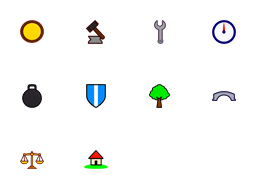
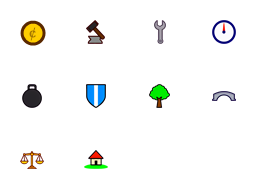
FIX: Align tooltip symbols and add a cent to the cost coin
display_color_img adds the image's stored x/y offset to the draw position. The tooltip symbol images were trimmed from a 64x64 cell, so their stored y offset moved every symbol down by one line: the cost coin appeared on the maintenance line and the cost line looked empty. Subtract the stored offset in draw_image_at so each visible sprite lands on its line.

The title line's custom toolbar icon no longer sets the symbol column for every line; body lines align on the largest per-line symbol. Add icon-size fallbacks for images whose stored size is zero.

Redraw the cost coin as a brown ring with a yellow centre and an alpha-blended cent sign, so the coin is self-explanatory without high contrast.

Changed region(s): [[0.0625, 0.0938, 0.1875, 0.25]]

diff --git a/gui/tooltip.cc b/gui/tooltip.cc
@@ -74,6 +74,16 @@ static scr_size get_image_size(image_id image)
 }
 
 
+static void draw_image_at(image_id image, scr_coord_val x, scr_coord_val y, bool dirty)
+{
+	scr_coord_val xoff, yoff, w, h;
+	display_get_image_offset(image, &xoff, &yoff, &w, &h);
+	// display_color_img adds the image's stored x/y offset; subtract it so the
+	// visible sprite lands on the requested position.
+	display_color_img(image, x - xoff, y - yoff, 0, false, dirty);
+}
+
+
 sint32 tooltip_t::get_max_width()
 {
 	const sint32 screen_width = display_get_width() - 2 * D_MARGIN_LEFT;
@@ -85,14 +95,16 @@ sint32 tooltip_t::get_icon_width(const tooltip_line_t &line)
 {
 	if(line.custom_icon != IMG_EMPTY)
 	{
-		return get_image_size(line.custom_icon).w;
+		const sint32 width = get_image_size(line.custom_icon).w;
+		return width > 0 ? width : env_t::iconsize.w;
 	}
 	if(line.symbol != TOOLTIP_SYMBOL_NONE)
 	{
 		const image_id image = get_symbol_image(line.symbol);
 		if(image != IMG_EMPTY)
 		{
-			return get_image_size(image).w;
+			const sint32 width = get_image_size(image).w;
+			return width > 0 ? width : 24;
 		}
 	}
 	return 0;
@@ -103,14 +115,16 @@ static sint32 get_icon_height(const tooltip_line_t &line)
 {
 	if(line.custom_icon != IMG_EMPTY)
 	{
-		return get_image_size(line.custom_icon).h;
+		const sint32 height = get_image_size(line.custom_icon).h;
+		return height > 0 ? height : env_t::iconsize.h;
 	}
 	if(line.symbol != TOOLTIP_SYMBOL_NONE)
 	{
 		const image_id image = get_symbol_image(line.symbol);
 		if(image != IMG_EMPTY)
 		{
-			return get_image_size(image).h;
+			const sint32 height = get_image_size(image).h;
+			return height > 0 ? height : 24;
 		}
 	}
 	return 0;
@@ -285,30 +299,36 @@ void tooltip_t::draw(scr_coord pos, scr_coord anchor, bool dirty) const
 
 	const sint32 max_width = get_max_width();
 
-	sint32 icon_column = 0;
+	// The title line may carry a toolbar icon much larger than the per-line
+	// symbols. Give it its own text offset so it does not push every other line
+	// to the right.
+	sint32 symbol_column = 0;
 	for(const tooltip_line_t &line : lines)
 	{
-		const sint32 icon_width = get_icon_width(line);
-		if(icon_width > 0)
+		if(line.custom_icon == IMG_EMPTY)
 		{
-			icon_column = max(icon_column, icon_width + TOOLTIP_ICON_GAP);
+			const sint32 icon_width = get_icon_width(line);
+			if(icon_width > 0)
+			{
+				symbol_column = max(symbol_column, icon_width + TOOLTIP_ICON_GAP);
+			}
 		}
 	}
 
-	const sint32 text_max_width = max(40, max_width - 2 * TOOLTIP_PADDING - icon_column);
-
-	sint32 text_width = 0;
+	sint32 content_width = 0;
 	sint32 height = 2 * TOOLTIP_PADDING;
 	for(const tooltip_line_t &line : lines)
 	{
+		const sint32 text_offset = line.custom_icon != IMG_EMPTY ? get_icon_width(line) + TOOLTIP_ICON_GAP : symbol_column;
+		const sint32 text_max_width = max(40, max_width - 2 * TOOLTIP_PADDING - text_offset);
 		const sint32 raw_width = display_calc_proportional_string_len_width(line.text.get_str(), line.text.len());
-		text_width = max(text_width, min(raw_width, text_max_width));
+		content_width = max(content_width, text_offset + min(raw_width, text_max_width));
 		const sint32 wrapped = count_wrapped_lines(line.text.get_str(), text_max_width);
 		const sint32 line_height = max(LINESPACE, get_icon_height(line));
 		height += max(1, wrapped) * line_height + TOOLTIP_LINE_GAP;
 	}
 
-	sint32 width = 2 * TOOLTIP_PADDING + icon_column + text_width;
+	sint32 width = 2 * TOOLTIP_PADDING + content_width;
 	width = max(width, 2 * TOOLTIP_PADDING + 40);
 	width = min(width, max_width);
 	height = max(height, 2 * TOOLTIP_PADDING + LINESPACE);
@@ -403,17 +423,20 @@ void tooltip_t::draw(scr_coord pos, scr_coord anchor, bool dirty) const
 	}
 
 	sint32 line_y = pos.y + TOOLTIP_PADDING;
-	const sint32 text_x = pos.x + TOOLTIP_PADDING + icon_column;
 
 	for(const tooltip_line_t &line : lines)
 	{
 		const image_id image = get_line_image(line);
 		const scr_size icon_size = get_image_size(image);
-		const sint32 line_height = max(LINESPACE, icon_size.h);
+		const sint32 icon_height = get_icon_height(line);
+		const sint32 line_height = max(LINESPACE, icon_height);
+		const sint32 text_offset = line.custom_icon != IMG_EMPTY ? get_icon_width(line) + TOOLTIP_ICON_GAP : symbol_column;
+		const sint32 text_max_width = max(40, max_width - 2 * TOOLTIP_PADDING - text_offset);
+		const sint32 text_x = pos.x + TOOLTIP_PADDING + text_offset;
 
 		if(image != IMG_EMPTY)
 		{
-			display_color_img(image, pos.x + TOOLTIP_PADDING, line_y + (line_height - icon_size.h) / 2, 0, false, dirty);
+			draw_image_at(image, pos.x + TOOLTIP_PADDING, line_y + (line_height - icon_size.h) / 2, dirty);
 		}
 
 		const uint32 wrapped = draw_wrapped_text(text_x, line_y + (line_height - LINESPACE) / 2, line.text.get_str(), text_max_width, text_color, dirty);
